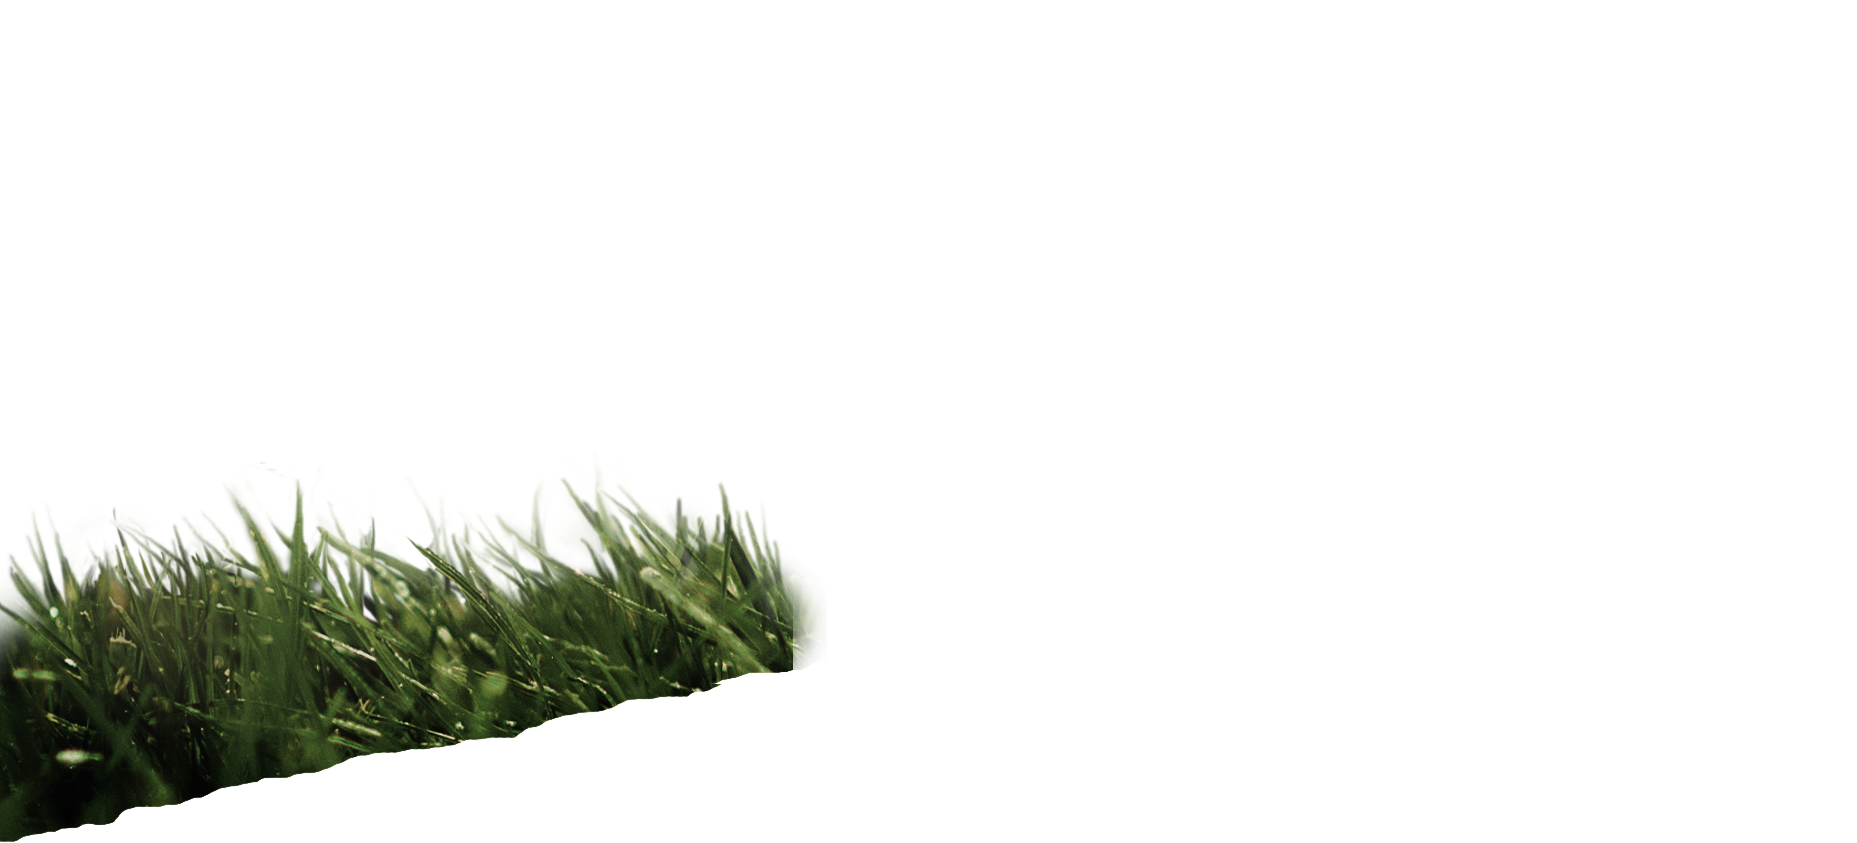
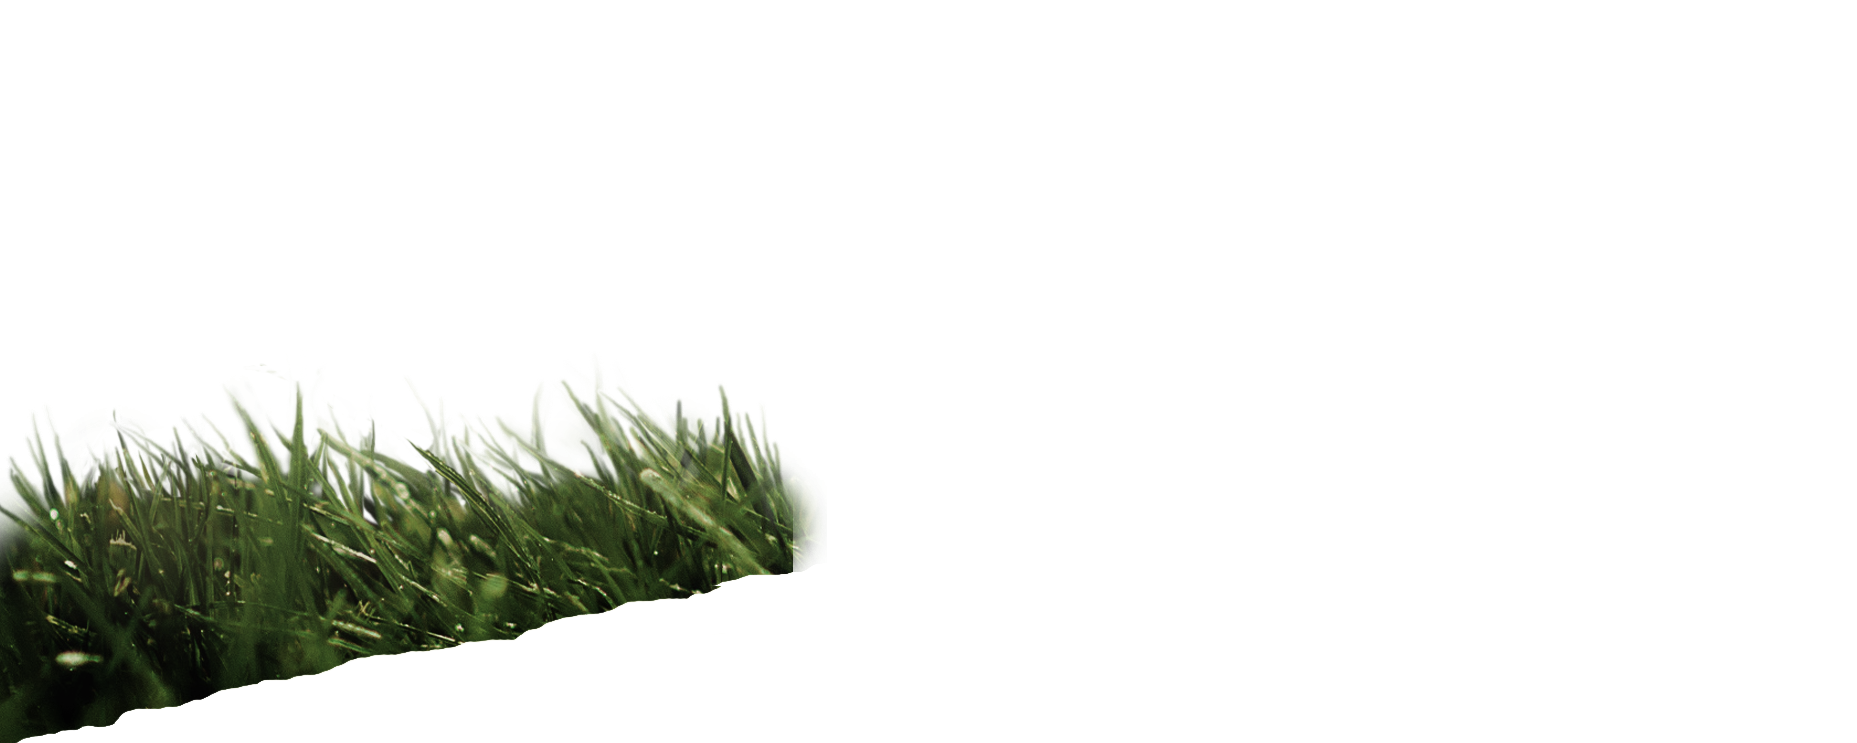
шапка

Changed region(s): [[0.0, 0.5262, 0.4373, 0.9287], [0.0625, 0.9287, 0.1249, 0.9596], [0.0, 0.9906, 0.0312, 1.0]]

diff --git a/src/style/partials/_header.scss b/src/style/partials/_header.scss
@@ -9,14 +9,11 @@ body
 	background:url(../img/foot_bg.png) left bottom repeat-x;
 	*/
 	/* Permalink - use to edit and share this gradient: http://colorzilla.com/gradient-editor/#fcfcfc+0,96957d+100 */
-background: #fcfcfc; /* Old browsers */
-background: -moz-linear-gradient(top, #fcfcfc 60%, #96957d 100%); /* FF3.6-15 */
-background: -webkit-linear-gradient(top, #fcfcfc 60%,#96957d 100%); /* Chrome10-25,Safari5.1-6 */
-background: linear-gradient(to bottom, #fcfcfc 60%,#96957d 100%); /* W3C, IE10+, FF16+, Chrome26+, Opera12+, Safari7+ */
-filter: progid:DXImageTransform.Microsoft.gradient( startColorstr='#fcfcfc', endColorstr='#96957d',GradientType=0 ); /* IE6-9 */
-
-
-
+	background: #fcfcfc; /* Old browsers */
+	background: -moz-linear-gradient(top, #fcfcfc 60%, #96957d 100%); /* FF3.6-15 */
+	background: -webkit-linear-gradient(top, #fcfcfc 60%,#96957d 100%); /* Chrome10-25,Safari5.1-6 */
+	background: linear-gradient(to bottom, #fcfcfc 60%,#96957d 100%); /* W3C, IE10+, FF16+, Chrome26+, Opera12+, Safari7+ */
+	filter: progid:DXImageTransform.Microsoft.gradient( startColorstr='#fcfcfc', endColorstr='#96957d',GradientType=0 ); /* IE6-9 */
 	font-family: 'MyriadProRegular';
 }
 .clear{

diff --git a/src/js/partials/app.js b/src/js/partials/app.js
@@ -14,39 +14,27 @@ var w_button = obj.find('.next').width();
 */
 obj.children('ul').width(w_img * obj.find('li').length);
 
+obj.children('ul').prepend(obj.find('li:last').clone());
 obj.find('.next').click(function(){
-	obj.children('ul').animate({'left':c_left - w_img}, 1000, function () {
+	obj.children('ul').animate({'left':c_left - w_img}, 700, function () {
 	obj.children('ul').append(obj.find('li:first').clone());
 	obj.find('li:first').remove();
 	obj.children('ul').css({'left':(c_left) + 'px'});
 });
 
 });
+
 obj.find('.prev').click(function(){
-	
 	obj.children('ul').prepend(obj.find('li:last').clone());
 	obj.find('li:last').remove();
 	obj.children('ul').css({'left':(c_left - w_img) + 'px'});
-	obj.children('ul').animate({'left':c_left}, 1000);
+	obj.children('ul').animate({'left':c_left}, 700);
 
 	});
 
 }
 
-
-
-
-
-
-
-
-
-
-
-
 //центральный слайдер
-
-
 
 $.fn.carusel = function() {
 var obj = $(this);

diff --git a/src/style/partials/_1520.scss b/src/style/partials/_1520.scss
@@ -1,6 +1,12 @@
 @media (max-width: 1520px)
 {
 header{
+	background-size:1520px;
+	height: 710px;;
+	.trava{
+			background-size:1520px;
+
+	}
 	.head_ban{
 		width:469px;
 		height:517px;
@@ -24,6 +30,7 @@ header{
 	}
 	}
 	.header_bl{
+		height:475px;
 		.logo_bl{
 		padding-top: 40px;
 	}

diff --git a/src/style/partials/_1700.scss b/src/style/partials/_1700.scss
@@ -2,6 +2,7 @@
 {
 header{
 	background-size:1700px;
+	height: 760px;
 	.trava{
 			background-size:1700px;
 
@@ -22,6 +23,7 @@ header{
 		}
 }
 .header_bl{
+	height:530px;
 	.logo_bl{
 	padding-top: 40px;
 }
